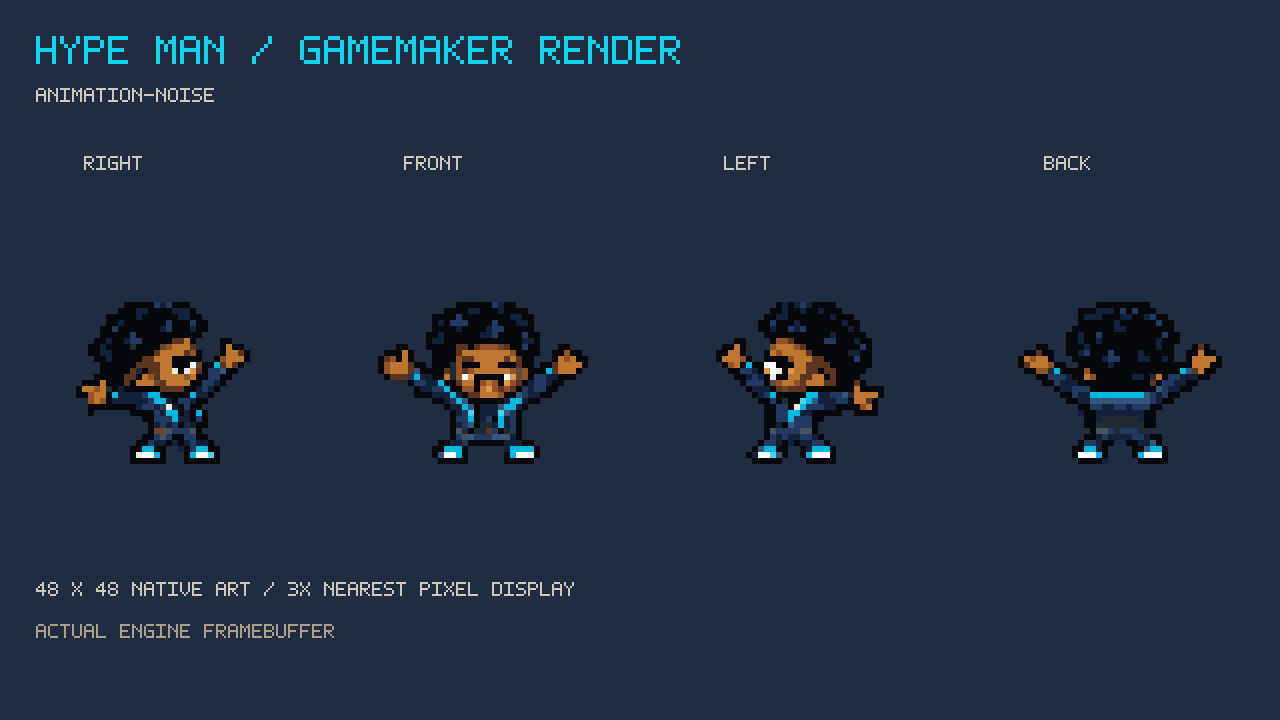
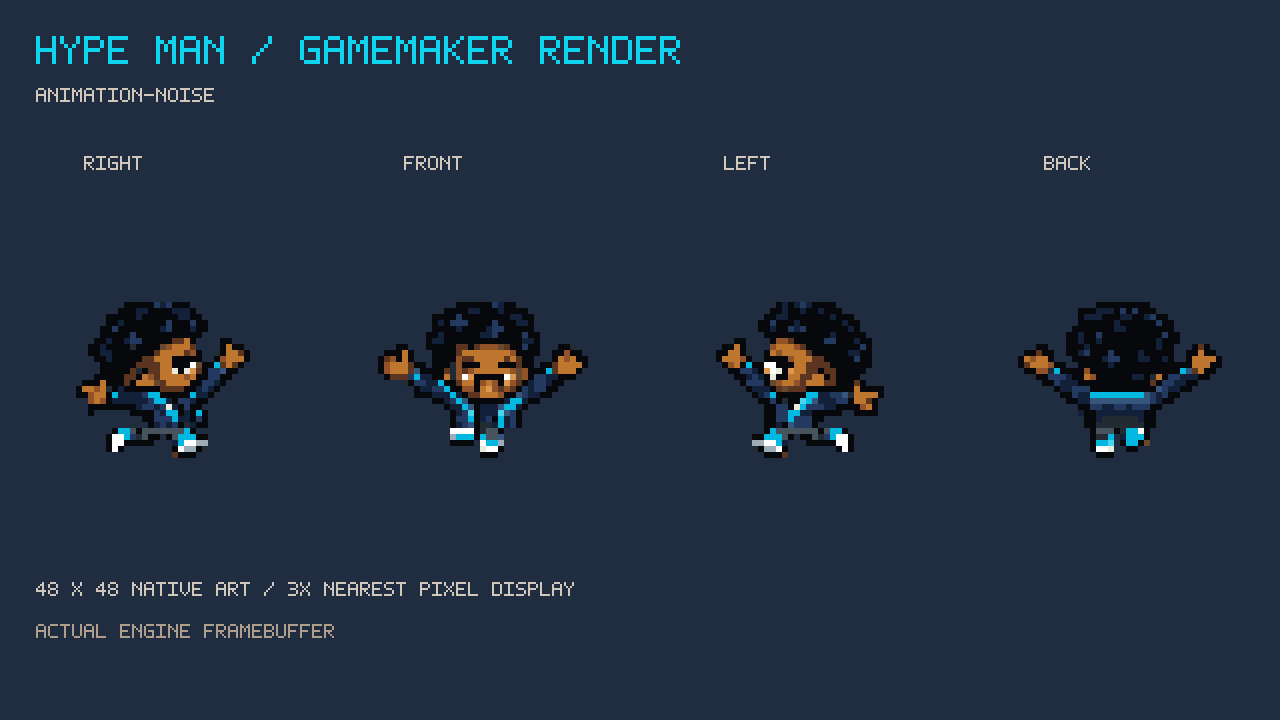
Keep action poses animated during movement

diff --git a/docs/hypeman-v9-action-pass.md b/docs/hypeman-v9-action-pass.md
@@ -18,11 +18,13 @@ This is an inference from those design statements, not a claim about Gungeon's e
 | On a Roll | Small cyan motes around the compact body replace the oversized v7 layers; the buff's gameplay duration and refresh are unchanged. |
 | Death | Four-view 80 ms recoil, 240 ms backward fall, and 380 ms grounded hold. The final pose stays on screen until restart. |
 
+While reload, hit, or Make Some Noise plays during movement, the renderer keeps the authored action upper body and uses the matching run-frame legs. Stationary actions retain their authored full-body poses. This keeps the hand gesture readable without making the character skate across the room.
+
 The action source is [Hype-Man-v9-Actions.aseprite](../art/hypeman-v8-proof/Hype-Man-v9-Actions.aseprite). The [original action reference sheet](../art/hypeman-v8-proof/action-reference-v9.png) was generated from the approved Hype Man model; [build-v9.lua](../art/hypeman-v8-proof/build-v9.lua) converts its poses to the 16-color native palette, fixed 48×48 canvas, and (24,44) foot origin. It appends the new clips without overwriting the v8 master. The runtime atlas and metadata are `datafiles/hypeman-v8-proof/Hype-Man-Actions.*`.
 
 ## Verification and review evidence
 
-- GameMaker LTS build, 103 gameplay and animation checks, input adapter check, and runtime smoke test passed on 29 September. Log: `work/test-2ba733f2de814318adf76e739d046dc3.log` (ignored local build output).
+- GameMaker LTS build, 105 gameplay and animation checks, input adapter check, and runtime smoke test passed on 29 September. Log: `work/test-da7d756daa0a41be86fbb50d1480edc7.log` (ignored local build output). The added checks cover moving reload legs and stationary authored feet.
 - The new atlas has 144 native frames and 40 named clips. Export checks enforce the palette, binary alpha and clear canvas margins. Timed source previews are in [review-v9](../art/hypeman-v8-proof/review-v9/).
 - An Aseprite pixel comparison found zero differences across all 100 approved v8 base frames in the new atlas.
 - A fresh Aseprite CLI export of the saved v9 master recovered all 144 frames and 40 tags; every tag range and frame duration matched the runtime metadata.
@@ -31,6 +33,7 @@ The action source is [Hype-Man-v9-Actions.aseprite](../art/hypeman-v8-proof/Hype
 - A timing review found the return-to-aim pose began 300 ms before the pistol was actually ready. It now begins 180 ms before readiness, leaving the reload hold visible longer while preserving the 900 ms gameplay rule.
 - Four-view engine captures of the [reload start](../art/hypeman-v8-proof/review-v9/game-renders/animation-reload-start.png), magazine contact, and [return to aim](../art/hypeman-v8-proof/review-v9/game-renders/animation-reload-ready.png) verify that all three source poses reach the runtime in the intended order.
 - A dedicated [On a Roll room capture](../art/hypeman-v8-proof/review-v9/game-renders/hype.png) exposed motes that were too small and rendered yellow because of GameMaker's colour-literal ordering. The revised effect uses explicit RGB values and larger cyan/white clusters. Bullets draw later than the character effect, retaining their visibility.
+- Actual GameMaker [moving reload](../art/hypeman-v8-proof/review-v9/game-renders/reload-moving.png) and [moving ability](../art/hypeman-v8-proof/review-v9/game-renders/ability-moving.png) captures show the action/run-leg composition in the room. Refreshed four-view [reload](../art/hypeman-v8-proof/review-v9/game-renders/animation-reload.png) and [ability](../art/hypeman-v8-proof/review-v9/game-renders/animation-noise.png) captures show its character-scale join. Still frames cannot establish live movement feel.
 
 ## What still needs judgment
 
@@ -46,5 +49,6 @@ The action source is [Hype-Man-v9-Actions.aseprite](../art/hypeman-v8-proof/Hype
 4. Capture both enlarged four-view frames and the real combat room. Enlarged art exposes stray pixels; the room reveals whether actions survive its lighting, scale, shelves and bullets.
 5. Keep technical validation, visual acceptance, and physical input feel as separate gates. Record which one each piece of evidence supports.
 6. Capture world-space effects in the actual room. A character-only gallery omits them, and GameMaker colour literals can differ from a hex code's usual RGB reading; use explicit RGB construction for critical cues.
+7. Check whether a full-body action pose holds the feet still while gameplay movement continues. Compose upper-body actions with locomotion legs when moving, then inspect the join at game scale and test the action timing separately.
 
 Newtype method used: game development lifecycle in production and testing; pixel-art animation production for timed action keys; GameMaker art integration for native export and runtime review. Runtime skills used: `pixel-art-animation-skill` and `gamemaker-art-integration-skill`. No Newtype agent was used.

diff --git a/docs/PROJECT_CHECKPOINT.md b/docs/PROJECT_CHECKPOINT.md
@@ -4,7 +4,7 @@ Checkpoint: 29 September 2026. Read the current action pass in [hypeman-v9-actio
 
 ## Current work
 
-The v9 action pass now includes reload, hit, Make Some Noise, compact On a Roll motes, and a three-phase directional death in the native GameMaker room. The v8 approved master is preserved. The latest build passes 103 checks plus input-adapter and runtime smoke checks. Actual engine captures and timed previews are saved in `art/hypeman-v8-proof/review-v9/`. Creator visual review and physical keyboard/controller playtests are still pending, so the combat-ready character gate is not yet approved. Continue with those reviews, fix any concrete readability or transition issue, then update this handoff and publish an accepted revision.
+The v9 action pass now includes reload, hit, Make Some Noise, compact On a Roll motes, and a three-phase directional death in the native GameMaker room. Moving reload, hit, and ability actions now retain animated run legs. The v8 approved master is preserved. The latest build passes 105 checks plus input-adapter and runtime smoke checks. Actual engine captures and timed previews are saved in `art/hypeman-v8-proof/review-v9/`. Creator visual review and physical keyboard/controller playtests are still pending, so the combat-ready character gate is not yet approved. Continue with those reviews, fix any concrete readability or transition issue, then update this handoff and publish an accepted revision.
 
 ## Approved baseline from 13 September 2026
 
@@ -46,7 +46,7 @@ The five groups below were open at the v8 baseline. Each is now implemented in t
 
 After those five groups:
 
-- [x] Run the GameMaker suite and smoke test with new animation behavior covered: 103 checks passed.
+- [x] Run the GameMaker suite and smoke test with new animation behavior covered: 105 checks passed.
 - [ ] Review all transitions in live play: idle/run/fire/reload/hit/roll/active/buff/death/restart; check overlaps and action priority.
 - [ ] Review feet, shadow, pistol/muzzle, shelf occlusion and palette/alpha at gameplay size in all views.
 - [ ] Complete several keyboard/mouse and physical-controller attempts using docs/playtest.md. Record controller model, aim/deadzones, drift, disconnect/reconnect, reload/dodge behavior, readable damage and restart.

diff --git a/docs/validation.md b/docs/validation.md
@@ -2,7 +2,7 @@
 
 ## Action animation pass — 29 September 2026
 
-The v9 action pass compiled in GameMaker LTS 2026.0.0.23 and passed 103 gameplay/animation checks, the input-adapter check, and runtime smoke test. Native 1280×720 captures cover reload, hit, active ability, and death in the Last Stop room, plus four-view galleries. See [hypeman-v9-action-pass.md](hypeman-v9-action-pass.md) for sources, review links, and remaining human acceptance checks. This is technical verification, not a completed physical-device playtest or creator visual approval.
+The v9 action pass compiled in GameMaker LTS 2026.0.0.23 and passed 105 gameplay/animation checks, the input-adapter check, and runtime smoke test. Native 1280×720 captures cover reload, hit, active ability, moving reload/ability, and death in the Last Stop room, plus four-view galleries. See [hypeman-v9-action-pass.md](hypeman-v9-action-pass.md) for sources, review links, and remaining human acceptance checks. This is technical verification, not a completed physical-device playtest or creator visual approval.
 
 ## Current baseline — 13 September 2026
 
